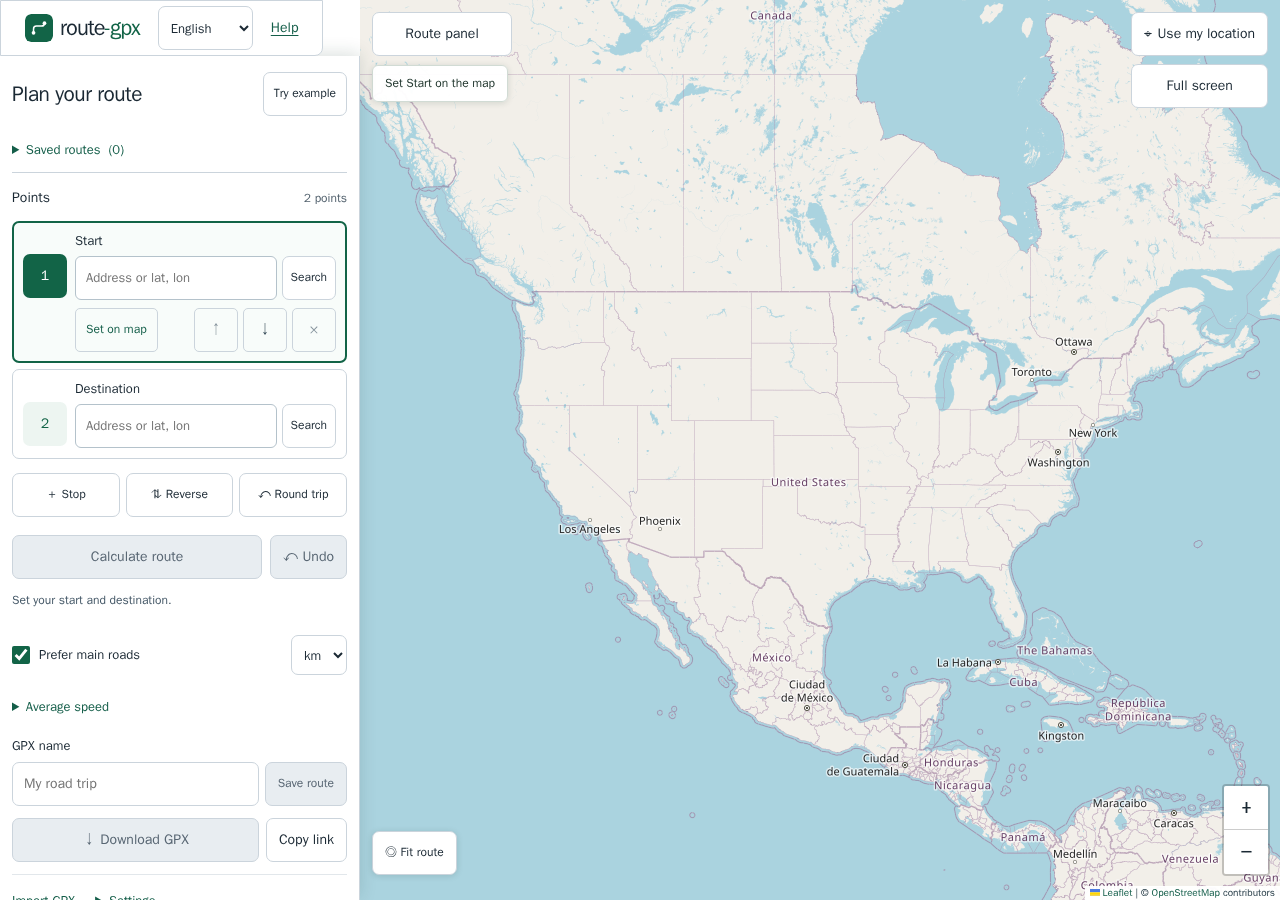
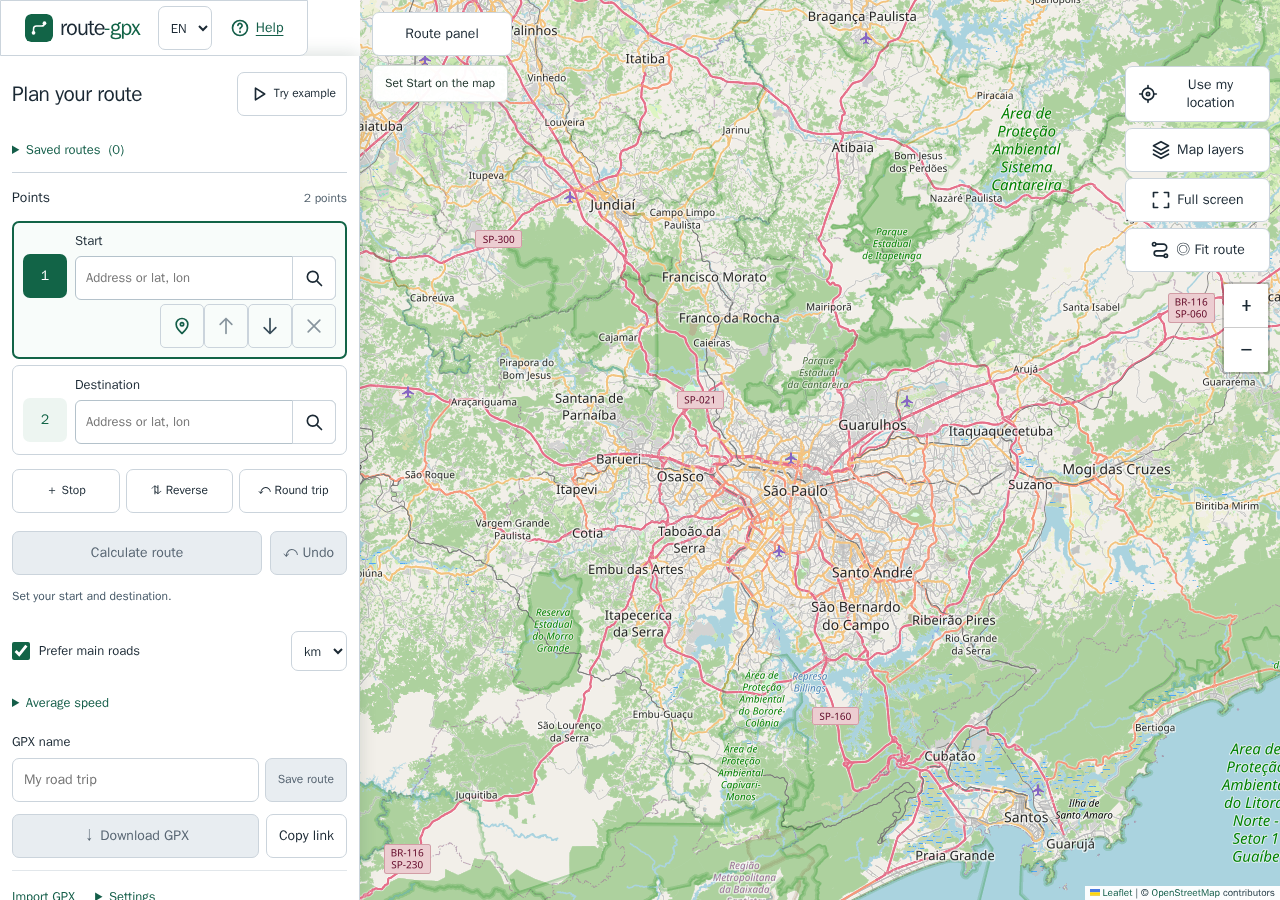
Refresh mobile guidance and route screenshots

diff --git a/help.html b/help.html
@@ -91,6 +91,12 @@
           calculation. Use Undo to restore a change, the arrows to reorder, or ×
           to remove a stop.
         </p>
+        <p>
+          On small screens, the right column contains location, layers, full
+          screen, fit route and zoom icons. Each has a tooltip and accessible
+          name. The header Help icon opens these instructions; address fields
+          use a search icon, and the pin icon selects the point on the map.
+        </p>
         <h2>Map layers</h2>
         <p>
           Open Map layers to choose Standard (OpenStreetMap), Topographic
@@ -119,7 +125,8 @@
           navigate the menu; Escape closes it.
         </p>
         <p>
-          After 3 address characters, Photon offers up to five suggestions. Use
+          After 3 address characters, Photon offers up to five suggestions.
+          Numeric coordinates, including incomplete input, stay local. Use
           arrows and Enter or touch a suggestion; Escape closes the list. Typed
           text and an approximate map-center bias go to the configured Photon
           service. If it fails, press Search or Enter for an explicit Nominatim
@@ -256,6 +263,13 @@
           cálculo. Use Desfazer para recuperar uma alteração, as setas para
           reordenar ou × para remover uma parada.
         </p>
+        <p>
+          Em telas pequenas, a coluna à direita contém ícones de localização,
+          camadas, tela cheia, ver rota e zoom. Cada um tem dica e nome
+          acessível. O ícone de Ajuda no cabeçalho abre estas instruções; os
+          campos de endereço usam uma lupa, e o ícone de pin seleciona o ponto
+          no mapa.
+        </p>
         <h2>Camadas do mapa</h2>
         <p>
           Abra Camadas do mapa e escolha Padrão (OpenStreetMap), Topográfico
@@ -284,7 +298,8 @@
           Shift+F10 abre o mesmo menu. Setas navegam pelo menu; Escape o fecha.
         </p>
         <p>
-          Após 3 caracteres de endereço, Photon oferece até cinco sugestões. Use
+          Após 3 caracteres de endereço, Photon oferece até cinco sugestões.
+          Coordenadas numéricas, inclusive incompletas, ficam no aparelho. Use
           setas e Enter ou toque em uma sugestão; Escape fecha a lista. O texto
           digitado e um viés aproximado do centro do mapa vão ao serviço Photon
           configurado. Se falhar, toque em Buscar ou Enter para uma busca

diff --git a/README.md b/README.md
@@ -23,6 +23,8 @@ A static application built with HTML, TypeScript, Vite and Leaflet. No account, 
 2. Add stops and adjust the points. Review the calculated route, distance and duration.
 3. Optionally enter a **GPX name**, then press **Download GPX**. The name applies to both the file and track; when blank, the endpoints are used.
 
+On small screens, map tools use a single column of icon buttons beside zoom. Their tooltips and accessible names identify each action. Address fields include a search icon; the pin icon selects a point on the map. The Help icon explains touch gestures.
+
 When supported by your browser, **Share GPX** opens the device share menu with the same named GPX file; cancelling is silent. **Download GPX** remains available. A desktop right-click (or Shift+F10 on the focused map) opens the point menu. Route drawing is simplified for the current zoom only; GPX, saved and imported geometry remain complete.
 
 For step-by-step instructions, use the [Help page](https://t00ls-dev.github.io/route-gpx/help.html). A [sample GPX](docs/example.gpx) is also available.
@@ -36,17 +38,17 @@ For step-by-step instructions, use the [Help page](https://t00ls-dev.github.io/r
 
 ## Services and privacy
 
-The app uses OpenStreetMap tiles, OSRM for routing, Valhalla as a fallback and Nominatim for address search. Maps, search and routing require an internet connection. These providers receive the locations needed for each request; shared links and backups also contain locations. The application sets no cookies or analytics.
+The site uses the selected tile provider, OSRM for routing, Valhalla as a fallback, Photon for suggestions and Nominatim for explicit address search. Maps, search and routing require an internet connection. These providers receive the locations needed for each request; shared links and backups also contain locations. The application sets no cookies or analytics.
 
 The initial view uses, in order: a route in the URL, GPS already authorized in the browser, an approximate IP region, then browser language and timezone (offline), with a world view as the final fallback. **Use my location** explains the purpose before you continue to the browser permission prompt. Exact GPS coordinates stay in memory only, are never stored in links, localStorage, sessionStorage or IndexedDB, and are never sent to project servers or routing/search services. Choosing **Set as start** or **Add as stop** explicitly creates a rounded coordinate (about a 100 m grid) that follows normal route sharing, routing and saving behavior. Review it on the map. The tile provider receives requests for the visible map area, including when centered by GPS.
 
-**Detect region by IP** is enabled by default and can be disabled in **Settings**; its service URL is configurable. [ipwho.is documentation](https://ipwhois.io/documentation) and [terms](https://ipwhois.io/terms) provide a free HTTPS, CORS-enabled endpoint without a key. Its published limit is 1,000 requests/day, shared by domain for browser CORS traffic; commercial use is allowed, with no availability guarantee. The browser sends its IP address to the selected provider, as it also does to tile servers. The app makes at most one attempt per tab session, with a 3 s timeout and no retries. Only an approximate city center is cached in memory; a session flag prevents repeated requests after reload. Failure silently uses the offline view. Preferences and panel state contain no location data.
+**Detect region by IP** is enabled by default and can be disabled in **Settings**; its service URL is configurable. [ipwho.is documentation](https://ipwhois.io/documentation) and [terms](https://ipwhois.io/terms) provide a free HTTPS, CORS-enabled endpoint without a key. Its published limit is 1,000 requests/day, shared by domain for browser CORS traffic; commercial use is allowed, with no availability guarantee. The browser sends its IP address to the selected provider, as it also does to tile servers. The app makes at most one attempt per tab session, with a 3 s timeout and no retries. Only an approximate city center is cached in memory; a session flag prevents repeated requests after reload. Failure silently uses the local language/timezone view. Preferences and panel state contain no location data.
 
-Address suggestions use [Photon](https://github.com/komoot/photon#demo-server) at `https://photon.komoot.io` (configurable in Settings). Its policy permits reasonable project use, with no numeric quota or availability guarantee; heavy use can be blocked. HTTPS and open CORS were verified. Typed text and a city-scale map-center bias are sent after 3 characters and a 300 ms pause, with a five-result limit, cancellation, memory cache and serialized starts at least 1 s apart. Nominatim is used only by Search/Enter, including after a Photon failure, never automatically while typing. Requests are spaced and cached where applicable, but public services have limited capacity and no availability guarantee. Follow the [Nominatim policy](https://operations.osmfoundation.org/policies/nominatim/) and [tile policy](https://operations.osmfoundation.org/policies/tiles/); configure your own services before scaling usage. Browser-side spacing cannot enforce a shared usage limit across all devices.
+Address suggestions use [Photon](https://github.com/komoot/photon#demo-server) at `https://photon.komoot.io` (configurable in Settings). Its policy permits reasonable project use, with no numeric quota or availability guarantee; heavy use can be blocked. HTTPS and open CORS were verified. Typed address text and a city-scale map-center bias are sent after 3 characters and a 300 ms pause, with a five-result limit, cancellation, memory cache and serialized starts at least 1 s apart. Numeric coordinate input, including incomplete coordinates, does not request suggestions. Nominatim is used only by Search/Enter, including after a Photon failure, never automatically while typing. Requests are spaced and cached where applicable, but public services have limited capacity and no availability guarantee. Follow the [Nominatim policy](https://operations.osmfoundation.org/policies/nominatim/) and [tile policy](https://operations.osmfoundation.org/policies/tiles/); configure your own services before scaling usage. Browser-side spacing cannot enforce a shared usage limit across all devices.
 
 Change service base URLs in **Settings**. Remote services need HTTPS and must allow browser cross-origin requests. For self-hosting, consult the [OSRM documentation](https://github.com/Project-OSRM/osrm-backend#quick-start) and [Nominatim documentation](https://nominatim.org/release-docs/latest/admin/Installation/).
 
-Map layers (Layers button) are loaded only when active; satellite Labels are optional and initially enabled. The selection and satellite edition are device preferences, outside route links and saved routes. The active tile provider receives your IP address and visible-area tile requests; labels send additional visible-area requests to EOX. No tile prefetching, offline storage or service worker is added. Zoom beyond native resolution enlarges existing tiles; it adds no detail.
+The Map layers control loads layers only when active; satellite Labels are optional and initially enabled. The selection and satellite edition are device preferences, outside route links and saved routes. The active tile provider receives your IP address and visible-area tile requests; labels send additional visible-area requests to EOX. No tile prefetching, offline storage or service worker is added. Zoom beyond native resolution enlarges existing tiles; it adds no detail.
 
 | Layer                             | Source and terms                                                                                                                      | Native zoom |
 | --------------------------------- | ------------------------------------------------------------------------------------------------------------------------------------- | ----------- |

diff --git a/README.pt-BR.md b/README.pt-BR.md
@@ -23,6 +23,8 @@ Um aplicativo estático feito com HTML, TypeScript, Vite e Leaflet. Não exige c
 2. Adicione paradas e ajuste os pontos. Confira a rota calculada, a distância e a duração.
 3. Se desejar, preencha **Nome do GPX** e pressione **Baixar GPX**. O nome vale para o arquivo e o trajeto; quando vazio, são usados os pontos de início e destino.
 
+Em telas pequenas, as ferramentas do mapa usam uma coluna de ícones junto ao zoom. Dicas e nomes acessíveis identificam cada ação. Os campos de endereço incluem uma lupa; o ícone de pin seleciona um ponto no mapa. O ícone de Ajuda explica os gestos de toque.
+
 Quando o navegador oferece suporte, **Compartilhar GPX** abre o menu de compartilhamento do aparelho com o mesmo arquivo GPX nomeado; cancelar não mostra erro. **Baixar GPX** continua disponível. O clique direito no desktop (ou Shift+F10 com o mapa em foco) abre o menu de pontos. Apenas o desenho da rota é simplificado para o zoom atual; a geometria do GPX e das rotas salvas e importadas permanece completa.
 
 Para instruções passo a passo, consulte a [página de Ajuda](https://t00ls-dev.github.io/route-gpx/help.html). Há também um [GPX de exemplo](docs/example.gpx).
@@ -36,13 +38,13 @@ Para instruções passo a passo, consulte a [página de Ajuda](https://t00ls-dev
 
 ## Serviços e privacidade
 
-O aplicativo usa tiles do OpenStreetMap, OSRM para roteamento, Valhalla como alternativa e Nominatim para busca de endereços. Mapas, buscas e roteamento exigem conexão à internet. Esses provedores recebem os locais necessários para cada requisição; links compartilhados e backups também contêm locais. O aplicativo não define cookies nem usa analytics.
+O site usa o provedor de tiles escolhido, OSRM para roteamento, Valhalla como alternativa, Photon para sugestões e Nominatim para busca explícita de endereços. Mapas, buscas e roteamento exigem conexão à internet. Esses provedores recebem os locais necessários para cada requisição; links compartilhados e backups também contêm locais. O aplicativo não define cookies nem usa analytics.
 
 A vista inicial usa, em ordem: uma rota na URL, GPS já autorizado no navegador, região aproximada por IP e, depois, idioma e fuso horário do navegador (sem rede), com vista mundial como último recurso. **Usar minha localização** explica a finalidade antes de continuar para o pedido de permissão do navegador. As coordenadas exatas do GPS ficam apenas na memória, nunca são armazenadas em links, localStorage, sessionStorage ou IndexedDB e nunca são enviadas a servidores do projeto nem aos serviços de roteamento/busca. Escolher **Definir como início** ou **Adicionar como parada** cria explicitamente uma coordenada arredondada (grade de cerca de 100 m), que segue o comportamento normal de compartilhamento, roteamento e salvamento de rotas. Confira o ponto no mapa. O provedor de tiles recebe requisições da área visível do mapa, inclusive quando centralizada por GPS.
 
-**Detectar região pelo IP** vem ativado e pode ser desligado em **Configurações**; a URL do serviço é configurável. A [documentação do ipwho.is](https://ipwhois.io/documentation) e seus [termos](https://ipwhois.io/terms) oferecem um endpoint gratuito HTTPS, com CORS e sem chave. O limite publicado é de 1.000 requisições/dia, compartilhado por domínio para tráfego CORS do navegador; o uso comercial é permitido, sem garantia de disponibilidade. O navegador envia seu endereço IP ao provedor escolhido, como também faz com os servidores de tiles. O aplicativo faz no máximo uma tentativa por sessão da aba, com timeout de 3 s e sem repetições. Apenas um centro aproximado da cidade fica em cache na memória; um indicador de sessão evita novas requisições após recarregar. Falhas usam silenciosamente a vista sem rede. Preferências e estado do painel não contêm dados de localização.
+**Detectar região pelo IP** vem ativado e pode ser desligado em **Configurações**; a URL do serviço é configurável. A [documentação do ipwho.is](https://ipwhois.io/documentation) e seus [termos](https://ipwhois.io/terms) oferecem um endpoint gratuito HTTPS, com CORS e sem chave. O limite publicado é de 1.000 requisições/dia, compartilhado por domínio para tráfego CORS do navegador; o uso comercial é permitido, sem garantia de disponibilidade. O navegador envia seu endereço IP ao provedor escolhido, como também faz com os servidores de tiles. O aplicativo faz no máximo uma tentativa por sessão da aba, com timeout de 3 s e sem repetições. Apenas um centro aproximado da cidade fica em cache na memória; um indicador de sessão evita novas requisições após recarregar. Falhas usam silenciosamente a vista definida pelo idioma e fuso horário locais. Preferências e estado do painel não contêm dados de localização.
 
-As sugestões usam [Photon](https://github.com/komoot/photon#demo-server) em `https://photon.komoot.io` (configurável em Configurações). A política permite uso razoável em projetos, sem cota numérica nem garantia de disponibilidade; uso intenso pode ser bloqueado. HTTPS e CORS aberto foram verificados. O texto digitado e um viés do centro do mapa em escala de cidade são enviados após 3 caracteres e pausa de 300 ms, com limite de cinco resultados, cancelamento, cache em memória e inícios serializados com intervalo mínimo de 1 s. O Nominatim só é consultado por Buscar/Enter, inclusive após falha do Photon, nunca automaticamente ao digitar. As requisições são espaçadas e usam cache quando aplicável, mas os serviços públicos têm capacidade limitada e nenhuma garantia de disponibilidade. Siga a [política do Nominatim](https://operations.osmfoundation.org/policies/nominatim/) e a [política de tiles](https://operations.osmfoundation.org/policies/tiles/); configure serviços próprios antes de ampliar o uso. O espaçamento no navegador não consegue impor um limite de uso compartilhado entre todos os dispositivos.
+As sugestões usam [Photon](https://github.com/komoot/photon#demo-server) em `https://photon.komoot.io` (configurável em Configurações). A política permite uso razoável em projetos, sem cota numérica nem garantia de disponibilidade; uso intenso pode ser bloqueado. HTTPS e CORS aberto foram verificados. O texto de endereço digitado e um viés do centro do mapa em escala de cidade são enviados após 3 caracteres e pausa de 300 ms, com limite de cinco resultados, cancelamento, cache em memória e inícios serializados com intervalo mínimo de 1 s. Entradas numéricas de coordenadas, inclusive incompletas, não geram sugestões. O Nominatim só é consultado por Buscar/Enter, inclusive após falha do Photon, nunca automaticamente ao digitar. As requisições são espaçadas e usam cache quando aplicável, mas os serviços públicos têm capacidade limitada e nenhuma garantia de disponibilidade. Siga a [política do Nominatim](https://operations.osmfoundation.org/policies/nominatim/) e a [política de tiles](https://operations.osmfoundation.org/policies/tiles/); configure serviços próprios antes de ampliar o uso. O espaçamento no navegador não consegue impor um limite de uso compartilhado entre todos os dispositivos.
 
 Altere as URLs base dos serviços em **Configurações**. Serviços remotos precisam de HTTPS e devem permitir requisições entre origens no navegador. Para hospedagem própria, consulte a [documentação do OSRM](https://github.com/Project-OSRM/osrm-backend#quick-start) e a [documentação do Nominatim](https://nominatim.org/release-docs/latest/admin/Installation/).
 
